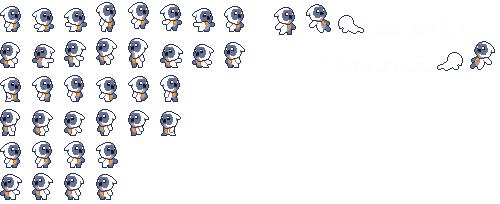
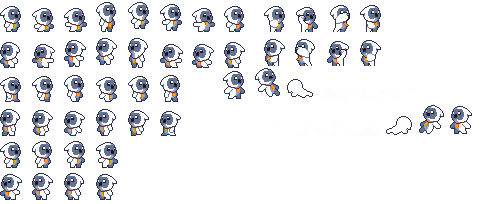
shoot animations, out of bounds death, avoided clipping

diff --git a/Game/Source/Player.cpp b/Game/Source/Player.cpp
@@ -72,6 +72,21 @@ Player::Player() : Module()
 	lFallAnim.PushBack({ 96, 36, 32, 32 });
 	lFallAnim.PushBack({ 64, 36, 32, 32 });
 	lFallAnim.speed = 0.015f;
+
+
+	rShootAnim.PushBack({ 264,6,21,26});
+	rShootAnim.PushBack({ 296,7,22,25 });
+	rShootAnim.PushBack({ 330,5,20,27 });
+	rShootAnim.PushBack({ 360,5,21,27 });
+	rShootAnim.speed = 0.02f;
+
+
+	lShootAnim.PushBack({ 360,40,21,26 });
+	lShootAnim.PushBack({ 327,41,22,25 });
+	lShootAnim.PushBack({ 295,39,20,27 });
+	lShootAnim.PushBack({ 264,39,21,27 });
+	lShootAnim.speed = 0.02f;
+
 }
 
 Player::~Player()
@@ -108,10 +123,52 @@ bool Player::Start()
 	scoreFont = app->fonts->Load("Assets/Fonts/score_font.png", lookupTable, 1);
 	return ret;
 }
+void Player::Death() {
 
+	bool loaded = false;
+	for (int i = 1; i >= 0; i--)
+	{
+		if (app->scene->checkPoints[i].activated == true)
+		{
+			app->LoadGameRequest();
+			loaded = true;
+			groundCol = true;
+			firstFrame = true;
+			spacePressed = false;
+			doubleJump = false;
+			speedY = 1.4f;
+			currentAnimation = &rIdleAnim;
+		}
+	}
+
+	if (loaded == false)
+	{
+		currentAnimation = &rIdleAnim;
+		position.x = 2 * app->map->data.tileWidth;
+		position.y = spawnX * app->map->data.tileHeight;
+		app->render->camera.x = 0;
+		app->render->camera.y = -77.5 * app->map->data.tileHeight;
+		groundCol = true;
+		firstFrame = true;
+		spacePressed = false;
+		doubleJump = false;
+		speedY = 1.4f;
+	}
+	app->audio->PlayFx(1);
+	lifes = 3;
+}
 bool Player::Update(float dt)
 {
 	bool ret = true;
+	if (position.x > app->map->data.tileWidth * app->map->data.width || position.x < 0) {
+		lifes = 0;
+		Death();
+	}
+
+	if (position.y>app->map->data.height*app->map->data.tileHeight) {
+		lifes = 0;
+		Death();
+	}
 
 	delta = dt;
 
@@ -211,7 +268,20 @@ bool Player::Update(float dt)
 	{
 		position.y += speedX;
 	}
+	
+	if (app->input->GetKey(SDL_SCANCODE_E) == KeyState::KEY_DOWN)
+	{
+		if (currentAnimation == &rIdleAnim || currentAnimation == &rJumpAnim || currentAnimation == &rWalkAnim || currentAnimation == &rFallAnim)
 
+			currentAnimation == &rShootAnim;
+
+
+		else if (currentAnimation == &lIdleAnim || currentAnimation == &lJumpAnim || currentAnimation == &lWalkAnim || currentAnimation == &lFallAnim)
+
+			currentAnimation == &lShootAnim;
+	}
+
+	
 	 //If no right/left/up movement detected, set the current animation back to idle
 	if (app->input->GetKey(SDL_SCANCODE_A) == KeyState::KEY_IDLE
 		&& app->input->GetKey(SDL_SCANCODE_D) == KeyState::KEY_IDLE
@@ -409,6 +479,12 @@ void Player::ChangeMap(int mapNum)
 	}
 }
 
+
+
+bool Player::CheckTunneling(SDL_Rect r1, SDL_Rect r2)
+{
+	return (r1.y > r2.y&& r1.y + r1.h < r2.y + r2.h);
+}
 void Player::OnCollision(Collider* c1, Collider* c2)
 {
 	if (collider->type != COLLIDER_GODMODE)
@@ -432,10 +508,12 @@ void Player::OnCollision(Collider* c1, Collider* c2)
 					textureHurt.loaded = true;
 				}
 
+
+
 				LOG("lifes: %d", lifes);
 			}
 
-			else if(lifeWait != 0)
+			else if (lifeWait != 0)
 			{
 				int currentTime = SDL_GetTicks();
 
@@ -456,37 +534,9 @@ void Player::OnCollision(Collider* c1, Collider* c2)
 			}
 
 			if (lifes == 0)
-			{
-				bool loaded = false;
-				for (int i = 1; i >= 0; i--)
-				{
-					if (app->scene->checkPoints[i].activated == true)
-					{
-						app->LoadGameRequest();
-						loaded = true;
-						groundCol = true;
-						firstFrame = true;
-						spacePressed = false;
-						doubleJump = false;
-						speedY = 1.4f;
-						currentAnimation = &rIdleAnim;
-					}
-				}
-				if (loaded == false)
-				{
-					currentAnimation = &rIdleAnim;
-					position.x = 2 * app->map->data.tileWidth;
-					position.y = spawnX * app->map->data.tileHeight;
-					app->render->camera.x = 0;
-					app->render->camera.y = -77.5 * app->map->data.tileHeight;
-					groundCol = true;
-					firstFrame = true;
-					spacePressed = false;
-					doubleJump = false;
-					speedY = 1.4f;
-				}
-				lifes = 3;
-			}
+				Death();
+
+
 		}
 		if (c1->type == COLLIDER_TYPE::COLLIDER_PLAYER && c2->type == COLLIDER_TYPE::COLLIDER_WALL)
 		{
@@ -506,7 +556,7 @@ void Player::OnCollision(Collider* c1, Collider* c2)
 				if (downCol == true)
 				{
 					downCol = false;
-					if(speedY < 0) speedY = savedSpeed;
+					if (speedY < 0) speedY = savedSpeed;
 				}
 			}
 
@@ -527,8 +577,9 @@ void Player::OnCollision(Collider* c1, Collider* c2)
 		{
 			int offset = -2 - (120 / (1 / delta));
 			if (offset < -7) offset = -7;
+			SDL_Rect nextCollision = { c1->rect.x, c1->rect.y + speedY, c1->rect.w, c1->rect.h };
 
-			if (c2->rect.y - (c1->rect.h + c1->rect.y) >= offset) // offset works as a way to try and have less tunneling, it is bigger with lower fps and can be as low as 7
+			if (CheckTunneling(nextCollision, c2->rect) == true || c2->rect.y - (c1->rect.h + c1->rect.y) >= offset) // offset works as a way to try and have less tunneling, it is bigger with lower fps and can be as low as 7		
 			{
 				// Reset all jumping and falling variables
 				if (currentAnimation == &rFallAnim && firstFrame == false) currentAnimation = &rJumpAnim;
@@ -582,7 +633,7 @@ void Player::OnCollision(Collider* c1, Collider* c2)
 		if (c1->type == COLLIDER_TYPE::COLLIDER_PLAYER && c2->type == COLLIDER_TYPE::COLLIDER_HEART)
 		{
 
-				// last && condition prevents saving if there's a further checkpoint already activated
+			// last && condition prevents saving if there's a further checkpoint already activated
 			if (app->scene->hearts.activated == false)
 			{
 				lifes++;
@@ -591,6 +642,6 @@ void Player::OnCollision(Collider* c1, Collider* c2)
 			}
 
 		}
-			
+
 	}
 }

diff --git a/Game/Source/Collisions.cpp b/Game/Source/Collisions.cpp
@@ -248,6 +248,26 @@ bool Collisions::PreUpdate()
 
 			c2 = colliders[k];
 
+			if (c1->toDelete == false && c2->toDelete == false && c1->type == COLLIDER_TYPE::COLLIDER_PLAYER && c2->type == COLLIDER_TYPE::COLLIDER_FLOOR)
+			{
+				SDL_Rect nextPos = c1->rect;
+				nextPos.y += app->player->speedY;
+				if (c2->CheckCollision(nextPos) == true)
+				{
+					c1->callback->OnCollision(c1, c2);
+				}
+			}
+
+			else if (c1->toDelete == false && c2->toDelete == false && c2->type == COLLIDER_TYPE::COLLIDER_PLAYER && c1->type == COLLIDER_TYPE::COLLIDER_FLOOR)
+			{
+				SDL_Rect nextPos = c2->rect;
+				nextPos.y += app->player->speedY;
+				if (c1->CheckCollision(nextPos) == true)
+				{
+					c2->callback->OnCollision(c2, c1);
+				}
+			}
+
 			if (c1->CheckCollision(c2->rect) == true)
 			{
 

diff --git a/Game/Source/Player.h b/Game/Source/Player.h
@@ -41,6 +41,8 @@ public:
 	bool EqualFrames(SDL_Rect, SDL_Rect);
 
 	void ChangeMap(int map);
+	bool CheckTunneling(SDL_Rect r1, SDL_Rect r2);
+	void Death();
 
 public:
 	// Position of the player in the map
@@ -53,7 +55,7 @@ public:
 	float			gravity = 0.01f;
 	float			maxNegativeSpeedY;
 	float			delta = 0.0f;
-	int				speedMultiplier = 90;
+	int				speedMultiplier = 120;
 
 	// The player spritesheet loaded into an SDL_Texture
 	SDL_Texture*	texture = nullptr;
@@ -73,6 +75,9 @@ public:
 	Animation		lJumpAnim;
 	Animation		rFallAnim;
 	Animation		lFallAnim;
+	Animation		rShootAnim;
+	Animation		lShootAnim;
+
 
 	bool			wallCol = false;
 	bool			downCol = false;
